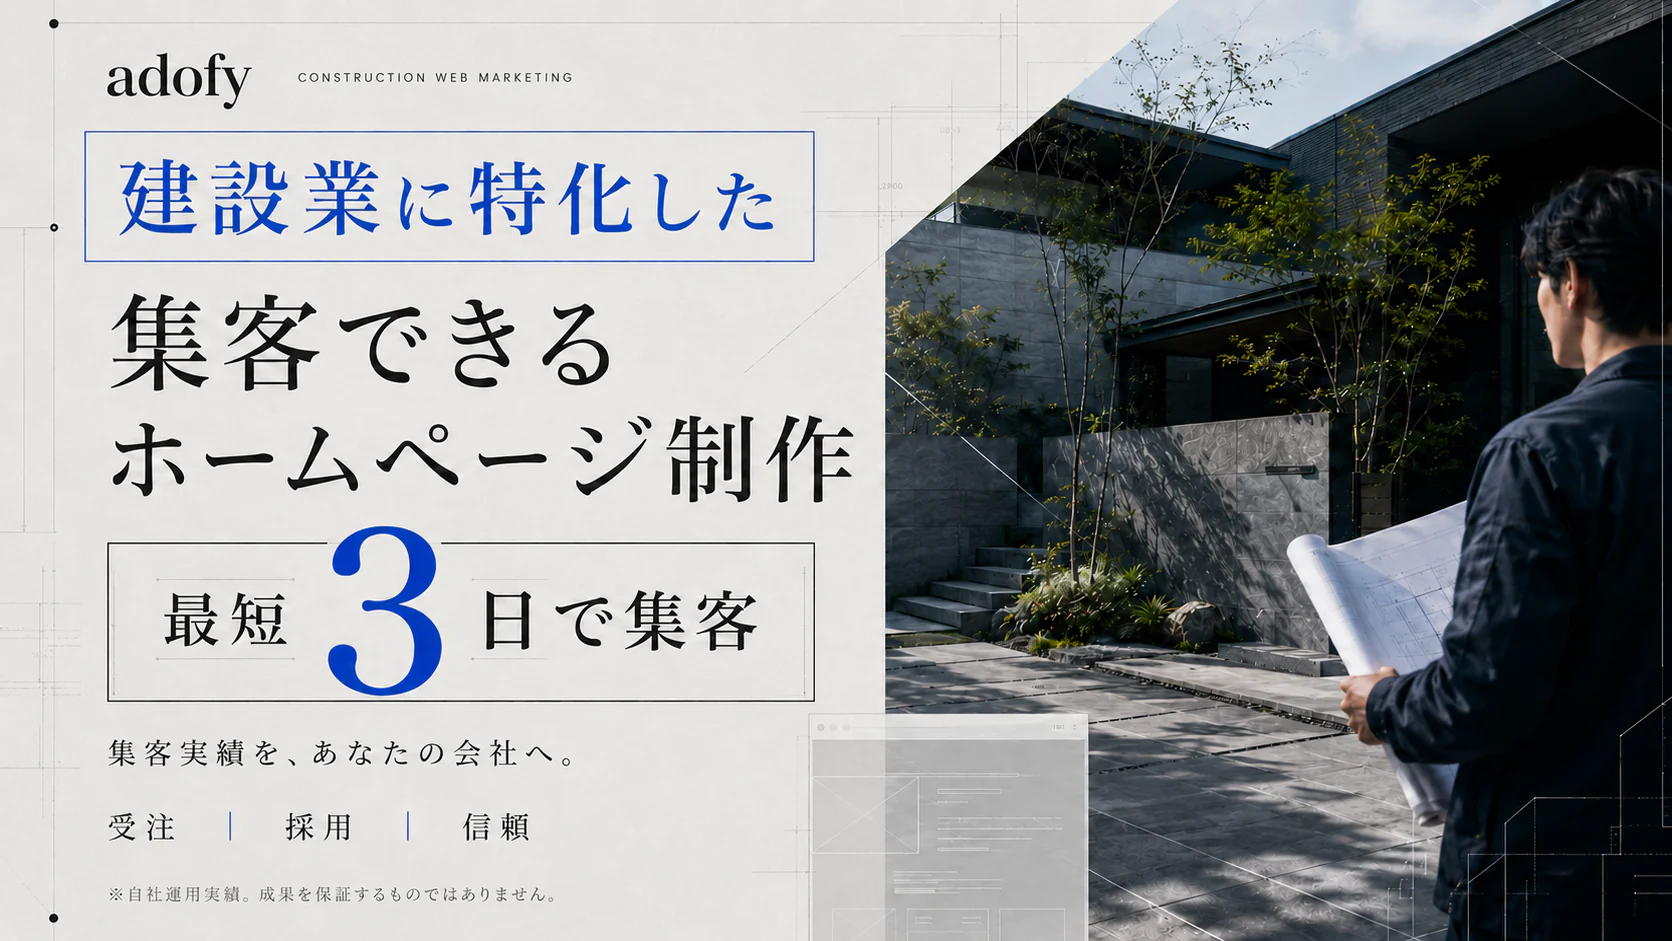
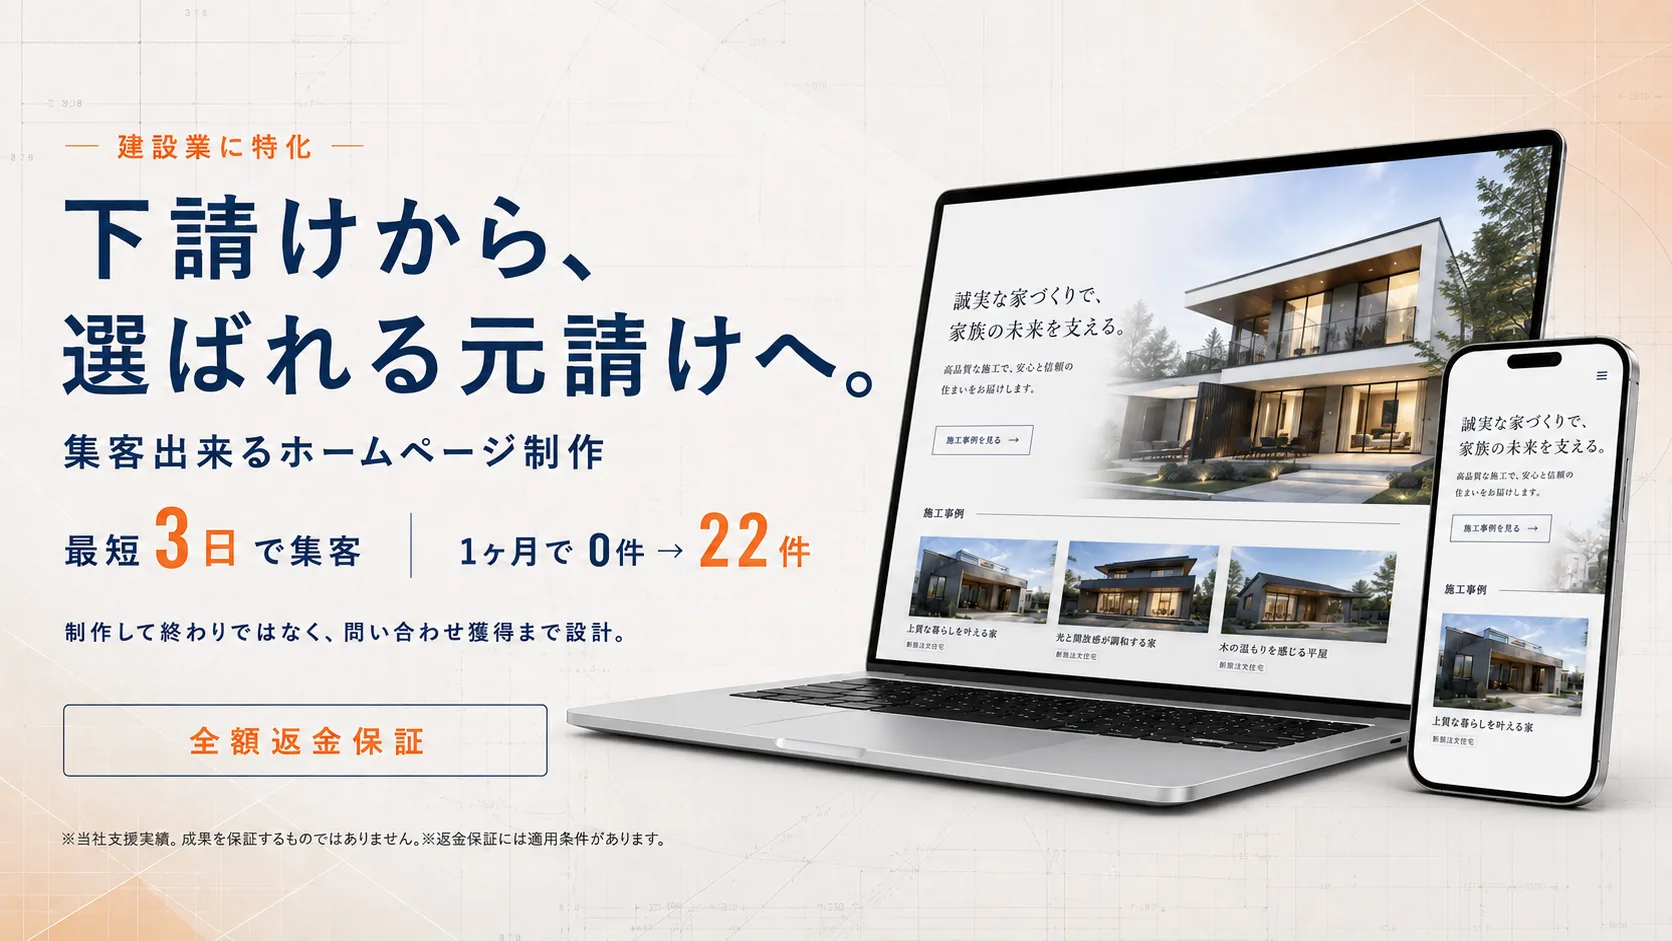
syuusei

diff --git a/components/adofy/config.ts b/components/adofy/config.ts
@@ -72,11 +72,12 @@ export const HERO_IMAGE: {
   sp: "/images/adofy/hero-sp.webp",
   // 画像内の文言をそのまま読み上げられるようにする（画像内の注記も省略しない）
   alt:
-    "建設業に特化した、集客できるホームページ制作 adofy。最短3日で集客。集客実績を、あなたの会社へ。受注・採用・信頼。" +
-    "※自社運用実績。成果を保証するものではありません。",
+    "建設業に特化。下請けから、選ばれる元請けへ。集客出来るホームページ制作。" +
+    "最短3日で集客。1ヶ月で0件から22件。制作して終わりではなく、問い合わせ獲得まで設計。全額返金保証。" +
+    "※当社支援実績。成果を保証するものではありません。※返金保証には適用条件があります。",
   // 実寸。CSSの aspect-ratio と揃えてレイアウトシフトを防ぐ
   pcW: 1672, pcH: 941,
-  spW: 1086, spH: 1448,
+  spW: 941, spH: 1672,
 };
 
 /* ═══════════════════════════════════════════════════════════════════════════
@@ -281,14 +282,15 @@ export const PLANS: Plan[] = [
       { text: "Googleアナリティクス等の計測設定" },
       { text: "採用ページまたは追加サービスページ" },
       { text: "公開後の改善提案" },
+      { text: "条件付き全額返金保証" },
     ],
+    guard: true,
   },
   {
     id: "max",
     label: "PLAN 03",
     name: "MAXプラン",
     price: 70,
-    badge: "全額返金保証付き",
     for: "本気でWeb集客の仕組みを作りたい事業者向け",
     items: [
       { text: "集客強化プランの全内容", inherit: true },
@@ -389,7 +391,7 @@ export const FAQS = [
     a: "問い合わせ獲得を目的とした設計を行いますが、地域、競合、サービス内容、広告予算などによって結果は異なります。事前に状況を確認し、現実的な集客方法をご提案します。",
   },
   {
-    q: "MAXプランの全額返金保証には条件がありますか？",
-    a: "はい。適用条件、対象期間、お客様にご協力いただく事項などがあります。詳細はご契約前に書面でご案内します。",
+    q: "全額返金保証には条件がありますか？",
+    a: "はい。集客強化プランとMAXプランが対象で、適用条件、対象期間、お客様にご協力いただく事項などがあります。詳細はご契約前に書面でご案内します。",
   },
 ] as const;

diff --git a/components/analytics/LpInsightTracker.tsx b/components/analytics/LpInsightTracker.tsx
@@ -1,21 +1,27 @@
 import Script from "next/script";
 
-// 高長建設のヒートマップ計測タグ (LP Insight)。
+// ヒートマップ計測タグ (LP Insight)。
 // 自社運用の LP Insight (Vercel) にクリック/スクロール/アテンション等を送信する。
 // このリポジトリは他社LPも同居するため app/layout.tsx には入れず、対象ページにのみ設置する。
-// プロジェクトは2つ: 外構広告LP(既定) と コーポレートHP(projectId指定)。
+// プロジェクトは3つ: 高長建設の外構広告LP(既定) / 高長建設コーポレートHP / adofy集客LP。
 const TRACKER_SRC = "https://lp-insight-rosy.vercel.app/tracker.js";
 
 /** 外構リフォーム広告LP (デフォルト) */
 const GAIKOU_LP_PROJECT_ID = "063ecbb7-8412-422d-90dc-dca0a4a24fda";
-/** コーポレートHP用 */
+/** 高長建設コーポレートHP用 */
 export const TAKANAGA_HP_PROJECT_ID = "375fd391-9df4-42d9-be2b-51f7f50f6026";
+/** adofy集客LP用 (/adofy, /contact, /contact/thanks) */
+export const ADOFY_LP_PROJECT_ID = "5f3419a3-3090-43e5-9107-cfe2c6568d96";
 
 export default function LpInsightTracker({
   projectId = GAIKOU_LP_PROJECT_ID,
 }: {
   projectId?: string;
 }) {
+  // プロジェクト未設定のまま計測タグを出すと不明プロジェクトへの送信になるため、
+  // IDが空のときは何も描画しない
+  if (!projectId) return null;
+
   return (
     <Script
       id="lp-insight-tracker"

diff --git a/app/adofy/adofy.css b/app/adofy/adofy.css
@@ -680,9 +680,9 @@
     画像の実寸比と完全に一致させる。
     ずらすと object-fit: cover が働き、クリエイティブ内の文字（特に下部の注記）が切れる。
     比率で高さを確保しているので、読み込み前後でレイアウトシフトも起きない。
-    SP: 1086 × 1448（3:4）
+    SP: 941 × 1672（縦長）
   */
-  aspect-ratio: 1086 / 1448;
+  aspect-ratio: 941 / 1672;
 }
 @media (min-width: 768px) {
   /* PC・タブレット: 1672 × 941（16:9） */
@@ -1412,6 +1412,13 @@
   letter-spacing: 0.08em;
   border-bottom-left-radius: var(--adf-radius);
   z-index: 3;
+}
+/* 返金保証シール（右上）と併記するプランでは、重ならないよう左上に置く */
+.adf-plan__badge--left {
+  right: auto;
+  left: 0;
+  border-bottom-left-radius: 0;
+  border-bottom-right-radius: var(--adf-radius);
 }
 .adf-plan__label {
   font-family: var(--font-geist-mono), monospace;

diff --git a/components/adofy/contact/ConsultationForm.tsx b/components/adofy/contact/ConsultationForm.tsx
@@ -15,6 +15,7 @@ import {
 } from "./formState";
 import { ChoiceCards, ChoiceChecks, Question, SelectField, TextField } from "./fields";
 import { fireAdofyLead } from "@/lib/analytics/adofyPixel";
+import { fireLpInsightLead } from "@/components/analytics/lpInsightLead";
 
 const CONFIRM_STEP = TOTAL_STEPS - 1; // 最後は確認画面
 
@@ -182,6 +183,9 @@ export default function ConsultationForm() {
       track("consultation_complete", { plan: data.selectedPlan }, { once: false });
       // Meta広告の成果計測。APIが成功したこの分岐でのみ、adofyのPixelへ1回だけ送る
       fireAdofyLead("consultation_form");
+      // LP Insight のコンバージョン。/contact/thanks はURL直打ちでも開けるため、
+      // 完了ページ側ではなくここ（API成功時）で送る
+      fireLpInsightLead("lead", 1);
       markSubmitted();
       clearForm();
       clearAttribution();

diff --git a/app/adofy/page.tsx b/app/adofy/page.tsx
@@ -2,6 +2,7 @@ import type { Metadata } from "next";
 import "./adofy.css";
 
 import AdofyMetaPixel from "@/components/analytics/AdofyMetaPixel";
+import LpInsightTracker, { ADOFY_LP_PROJECT_ID } from "@/components/analytics/LpInsightTracker";
 
 import { CursorGlow, Header, Loader, MobileFixedCta, ScrollProgress, SmoothScroll } from "@/components/adofy/Chrome";
 import HeroSection from "@/components/adofy/HeroSection";
@@ -119,6 +120,8 @@ export default function AdofyPage() {
       />
       <StructuredData />
       <AdofyMetaPixel />
+      {/* LP Insight: クリック/スクロール/アテンションのヒートマップ計測 */}
+      <LpInsightTracker projectId={ADOFY_LP_PROJECT_ID} />
 
       <div className="adf-lp" id="top">
         <Loader />

diff --git a/app/contact/page.tsx b/app/contact/page.tsx
@@ -3,6 +3,7 @@ import { Suspense } from "react";
 import "../adofy/adofy.css";
 import "./contact.css";
 import AdofyMetaPixel from "@/components/analytics/AdofyMetaPixel";
+import LpInsightTracker, { ADOFY_LP_PROJECT_ID } from "@/components/analytics/LpInsightTracker";
 import ConsultationForm from "@/components/adofy/contact/ConsultationForm";
 import { ContactHeader } from "@/components/adofy/contact/ContactChrome";
 import { SITE } from "@/components/adofy/config";
@@ -25,6 +26,7 @@ export default function ContactPage() {
   return (
     <div className="adf-lp adf-contact">
       <AdofyMetaPixel />
+      <LpInsightTracker projectId={ADOFY_LP_PROJECT_ID} />
       <ContactHeader />
 
       <main className="adf-contact__main">

diff --git a/app/contact/thanks/page.tsx b/app/contact/thanks/page.tsx
@@ -2,6 +2,7 @@ import type { Metadata } from "next";
 import "../../adofy/adofy.css";
 import "../contact.css";
 import AdofyMetaPixel from "@/components/analytics/AdofyMetaPixel";
+import LpInsightTracker, { ADOFY_LP_PROJECT_ID } from "@/components/analytics/LpInsightTracker";
 import { ContactHeader, ThanksBody } from "@/components/adofy/contact/ContactChrome";
 
 export const metadata: Metadata = {
@@ -14,6 +15,7 @@ export default function ThanksPage() {
   return (
     <div className="adf-lp adf-contact">
       <AdofyMetaPixel />
+      <LpInsightTracker projectId={ADOFY_LP_PROJECT_ID} />
       <ContactHeader />
       <main className="adf-contact__main adf-contact__main--thanks">
         <ThanksBody />

diff --git a/components/adofy/PricingSection.tsx b/components/adofy/PricingSection.tsx
@@ -56,8 +56,11 @@ function PlanCard({ plan, index }: { plan: Plan; index: number }) {
       className={`adf-plan adf-reveal adf-reveal--up${plan.featured ? " adf-plan--feature" : ""}`}
       style={stagger(index)}
     >
-      {plan.badge && !plan.guard ? (
-        <span className="adf-plan__badge">{plan.badge}</span>
+      {/* 保証シールは右上に出るため、バッジと併記するときは左上へ逃がす */}
+      {plan.badge ? (
+        <span className={`adf-plan__badge${plan.guard ? " adf-plan__badge--left" : ""}`}>
+          {plan.badge}
+        </span>
       ) : null}
       {plan.guard ? <GuaranteeBadge /> : null}
 

diff --git a/components/adofy/contact/formConfig.ts b/components/adofy/contact/formConfig.ts
@@ -61,7 +61,11 @@ export const PROBLEM_CHOICES: Choice[] = [
 
 export const PLAN_CHOICES: Choice[] = [
   { value: "start", label: "30万円｜スタートプラン" },
-  { value: "growth", label: "50万円｜集客強化プラン" },
+  {
+    value: "growth",
+    label: "50万円｜集客強化プラン・条件付き全額返金保証",
+    note: "全額返金保証には適用条件があります。詳細はご契約前に書面でご案内します。",
+  },
   {
     value: "max",
     label: "70万円｜MAXプラン・条件付き全額返金保証",
